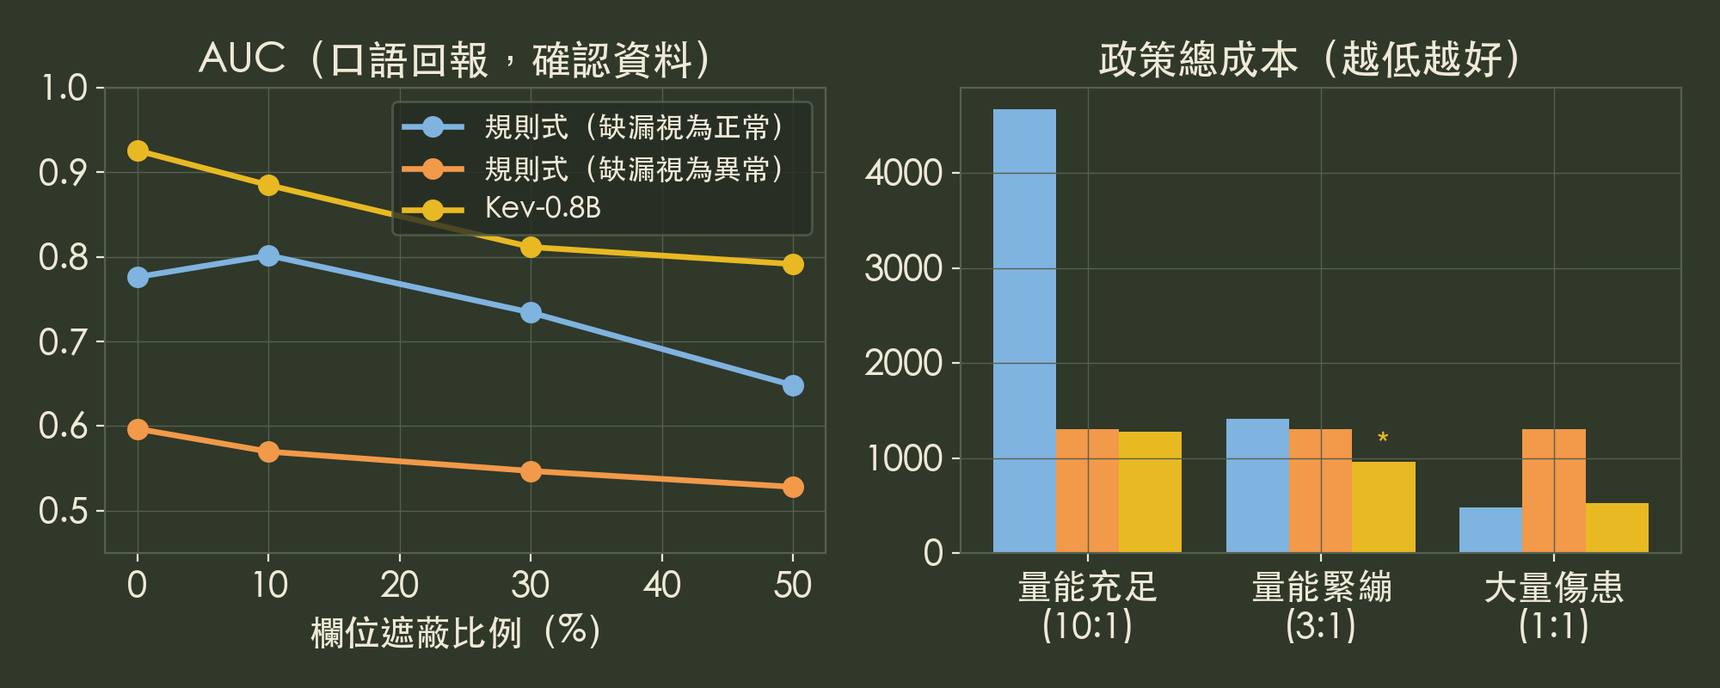
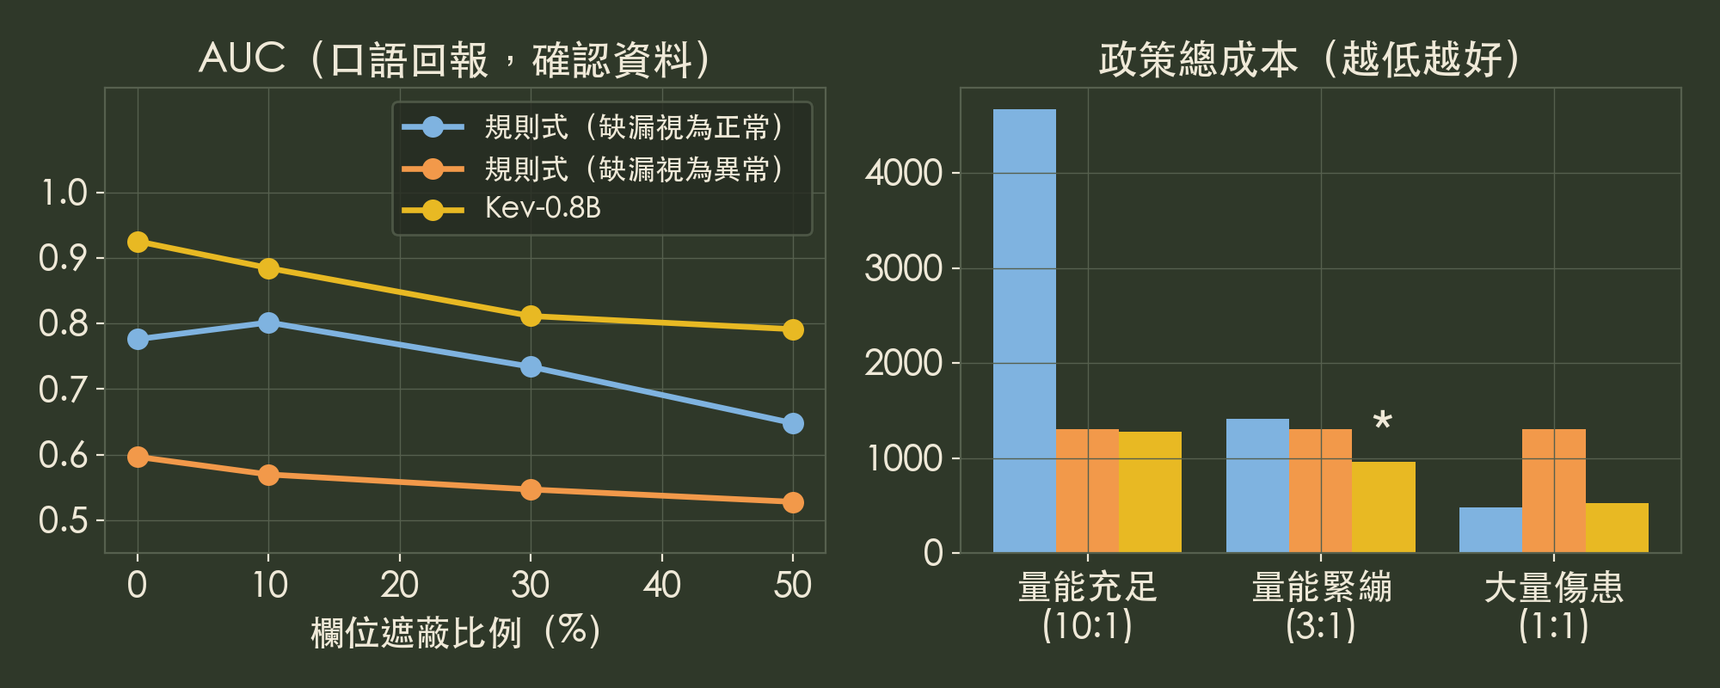
Fix outage over-triage rate and correct deck content and layout
Analysis
- analyze.py: the cloud-outage table averaged the over-triage rate of Jev
  and the fallback rules. That rate's denominator (reports called red)
  differs between the two, so mix the expected counts and recompute it.
  At 50% masking the 30% / 70% outage rows change from 25.5% / 43.1% to
  37.1% / 50.8%; under-triage and red-call share are unchanged.

Deck
- Slide 38 uses the corrected outage figures.
- Four AI models, not five; Qwen comparison stated in terms of AUC.
- ROC takeaway limited to Jev; "rules suffice on structured reports"
  narrowed to local small models, matching the cost table.
- Closing tag uses a limb case (C0353) instead of a tourniquet on an
  axillary wound, with the cross-validated threshold (~0.41).
- MARCH described as a care sequence rather than a triage standard.
- Preregistered H4 (Kev vs Qwen3-4B) reported as not run; preregistration
  described as self-registered, added to the limitations.
- Note that the AUC rise at 10% masking is within sampling error.
- Counts labelled as reports, sign of the cost change stated, SDT
  acronym dropped from a title, references tidied.
- Runs tagged zh-TW so PowerPoint applies East Asian line breaking;
  recommendation numbering runs 1-5; row labels no longer collide.
- Deck figures: legend clear of the lines, larger significance mark,
  "判斷傾向" wording. Report figures are unchanged.

diff --git a/簡報/build_pptx.js b/簡報/build_pptx.js
@@ -117,13 +117,13 @@ function tag(s, lines) {
 }
 
 // Numbered rows: [title, detail] pairs, one per line, for step-by-step explanations.
-function rows(s, items, y0 = 1.85, rowH = 1.0, size = 17) {
+function rows(s, items, y0 = 1.85, rowH = 1.0, size = 17, start = 1) {
   items.forEach(([t, d], i) => {
     const y = y0 + i * rowH;
     s.addShape(pres.shapes.ROUNDED_RECTANGLE, { x: 0.76, y, w: 11.8, h: rowH - 0.14, fill: { color: COL.card }, rectRadius: 0.06 });
-    s.addText(String(i + 1), { x: 0.95, y, w: 0.55, h: rowH - 0.14, fontFace: MONO, fontSize: 24, bold: true, color: COL.redText, margin: 0, valign: "middle", isTextBox: true });
-    s.addText(t, { x: 1.55, y, w: 2.9, h: rowH - 0.14, fontSize: size + 1, bold: true, color: COL.paper, margin: 0, valign: "middle", isTextBox: true });
-    s.addText(rich(d, { fontSize: size, color: "EAE3CF" }), { x: 4.55, y, w: 7.8, h: rowH - 0.14, margin: 0, valign: "middle", isTextBox: true, lineSpacingMultiple: 1.2 });
+    s.addText(String(i + start), { x: 0.95, y, w: 0.55, h: rowH - 0.14, fontFace: MONO, fontSize: 24, bold: true, color: COL.redText, margin: 0, valign: "middle", isTextBox: true });
+    s.addText(t, { x: 1.55, y, w: 3.2, h: rowH - 0.14, fontSize: size + 1, bold: true, color: COL.paper, margin: 0, valign: "middle", isTextBox: true });
+    s.addText(rich(d, { fontSize: size, color: "EAE3CF" }), { x: 4.95, y, w: 7.25, h: rowH - 0.14, margin: 0, valign: "middle", isTextBox: true, lineSpacingMultiple: 1.2 });
   });
 }
 
@@ -155,7 +155,7 @@ function rows(s, items, y0 = 1.85, rowH = 1.0, size = 17) {
 {
   const s = content("01 · BACKGROUND", "檢傷數位化之後，下一步是 AI 建議");
   bullets(s, ["國防部將「全社會防衛韌性」與軍民醫療體系整合列為施政重點（國防部，2025）。",
-    "2026 年漢光 42 號演習驗證衛勤「2 段 3 級」後送體系，並首度投入軍醫局研發的電子傷票（游凱翔，2026）。",
+    "2026 年漢光 42 號演習驗證衛勤「2 段 3 級」後送體系，並投入驗證軍醫局研發的電子傷票系統（游凱翔，2026）。",
     "電子傷票使傷情回報得以結構化，後續極可能由 AI 提供檢傷建議。"], 0.76, 2.1, 5.9, 4.0, 19);
   note(s, 7.0, 2.05, 5.55, 3.4, "為什麼門檻是政策問題",
     ["戰時後送量能有限：!!低估傷勢!!將延誤救治，**過度檢傷**則排擠救護車與手術量能。",
@@ -189,7 +189,7 @@ function rows(s, items, y0 = 1.85, rowH = 1.0, size = 17) {
   const s = content("01 · THE GAP", "規則式檢傷的隱含前提：回報須符合制式格式");
   note(s, 0.76, 1.95, 5.75, 3.35, "規則可解析的制式說法", ["有大量出血，正在加壓止血", "橈動脈摸不到", "呼吸每分鐘 34 次", "無法遵從簡單指令"], 20);
   note(s, 6.8, 1.95, 5.75, 3.35, "規則無法解析的口語說法", ["血一直噴出來，止血帶綁上去了", "手腕那邊摸不太到脈", "一分鐘大概三十四下", "叫他都沒反應"], 20);
-  caption(s, "START 與 MARCH 是現行的檢傷準則，只要知道傷員的生命徵象就能判斷，看似不需要 AI。但戰場無線電回報多半是口語，規則程式只認得預先寫好的用語，遇到其他說法就無法判讀，只能當成資料缺漏。**本研究要回答：在什麼條件下，前線值得用 AI 取代規則式檢傷？**", 0.76, 5.55, 11.8, 1.2, 18);
+  caption(s, "START 檢傷流程（本研究另依戰傷救護的 MARCH 原則，將大出血列為優先）只要知道傷員的生命徵象就能判斷，看似不需要 AI。但戰場無線電回報多半是口語，規則程式只認得預先寫好的用語，遇到其他說法就無法判讀，只能當成資料缺漏。**本研究要回答：在什麼條件下，前線值得用 AI 取代規則式檢傷？**", 0.76, 5.55, 11.8, 1.2, 18);
 }
 
 // === 04 QUESTIONS ===
@@ -217,7 +217,7 @@ function rows(s, items, y0 = 1.85, rowH = 1.0, size = 17) {
 // === 06 PIPELINE ===
 {
   const s = content("02 · TRACE PIPELINE", "TRACE 的五個步驟");
-  [["生成傷員", "依 START 與 MARCH 準則生成合成傷員及標準答案"], ["通訊受損", "轉為制式或口語回報，各欄位以 0%～50% 機率缺漏"],
+  [["生成傷員", "依 START 流程與 MARCH 原則生成合成傷員及標準答案"], ["通訊受損", "轉為制式或口語回報，各欄位以 0%～50% 機率缺漏"],
    ["判斷", "規則式與 AI 模型分別輸出屬紅色的機率"], ["評估", "計算 d'、c、AUC 與政策總成本"],
    ["政策推算", "推算量能情境門檻、人工覆核區間與部署成本"]].forEach(([h, t], i) => {
     const x = 0.76 + i * 2.39;
@@ -234,7 +234,7 @@ function rows(s, items, y0 = 1.85, rowH = 1.0, size = 17) {
 {
   const s = content("02 · TERMS", "本簡報使用的名詞");
   table(s, ["名詞", "意思"],
-    [["規則式檢傷", "不使用 AI，直接依 START 與 MARCH 檢傷準則的條文逐項判斷，例如呼吸每分鐘超過 30 次就判為紅色"],
+    [["規則式檢傷", "不使用 AI，直接依 START 檢傷流程與 MARCH 原則的條文逐項判斷，例如呼吸每分鐘超過 30 次就判為紅色"],
      ["制式回報／口語回報", "制式回報依固定格式與固定用語填寫；口語回報是無線電中自然講出的話，用語不固定"],
      ["欄位缺漏（遮蔽）", "回報中某些生命徵象沒有傳到，例如通訊中斷而缺少「呼吸次數」。遮蔽比例 30% 表示每個欄位有 30% 機率缺漏"],
      ["本機模型／雲端模型", "本機模型在前線的電腦上執行，不需網路；雲端模型必須連網，把資料傳到廠商伺服器處理"],
@@ -261,7 +261,7 @@ function rows(s, items, y0 = 1.85, rowH = 1.0, size = 17) {
 // === 08 GOLD ===
 {
   const s = content("02 · METHOD · 標準答案", "標準答案由準則直接決定");
-  const rules = ["大量出血 → 紅色（MARCH，Butler, 2017）", "可自行行走 → 綠色", "無自發呼吸：暢通呼吸道後恢復 → 紅色；仍無 → 黑色",
+  const rules = ["大量出血 → 紅色（MARCH 原則，Butler, 2017）", "可自行行走 → 綠色", "無自發呼吸：暢通呼吸道後恢復 → 紅色；仍無 → 黑色",
     "呼吸每分鐘超過 30 次 → 紅色", "橈動脈摸不到或微血管回填超過 2 秒 → 紅色", "無法遵從簡單指令 → 紅色", "其餘 → 黃色（START，Benson et al., 1996）"];
   s.addText(rules.map((t, i) => ({ text: t, options: { bullet: { type: "number" }, breakLine: i < rules.length - 1, paraSpaceAfter: 8 } })),
     { x: 0.76, y: 2.0, w: 6.2, h: 4.5, fontSize: 17, color: COL.cream, valign: "top", margin: 0.05, isTextBox: true });
@@ -273,7 +273,8 @@ function rows(s, items, y0 = 1.85, rowH = 1.0, size = 17) {
     x += w;
   });
   caption(s, "600 名合成傷員的檢傷分布", 7.3, 3.15, 5.25, 0.35, 12, "center");
-  note(s, 7.3, 3.75, 5.25, 1.7, null, ["本研究將「訊號」定義為**紅色**，即需立即處置者。", "標準答案由準則直接決定，無需專家標註，可依同一隨機種子重新生成"], 17);
+  note(s, 7.3, 3.75, 5.25, 2.85, null, ["本研究將「訊號」定義為**紅色**，即需立即處置者。", "標準答案由準則直接決定，無需專家標註，可依同一隨機種子重新生成。",
+    "START 是大量傷患檢傷流程；MARCH 是戰傷救護的處置順序，本研究借用其「大出血優先」原則，置於 START 流程之前"], 15);
 }
 
 // === 09 MASKING ===
@@ -302,18 +303,18 @@ function rows(s, items, y0 = 1.85, rowH = 1.0, size = 17) {
 // === 09c FAIR PARSER ===
 {
   const s = content("02 · METHOD · 公平性", "規則解析器：僅依 A 組說法撰寫，並力求完善");
-  bullets(s, ["以關鍵字比對程式讀取回報，找出各項生命徵象，再依 START 與 MARCH 準則判斷；讀不出來的欄位視為缺漏，分為「當作正常」與「當作異常」兩個版本",
+  bullets(s, ["以關鍵字比對程式讀取回報，找出各項生命徵象，再依 START 流程與 MARCH 原則判斷；讀不出來的欄位視為缺漏，分為「當作正常」與「當作異常」兩個版本",
     "程式只依 A 組說法撰寫，但已能處理否定句（如「無明顯大出血」）與兩種數字寫法",
     "公平性檢驗：回報全部採用 A 組說法時，解析器與直接讀取欄位的規則在 2,400 筆中判斷完全一致"], 0.76, 2.0, 6.6, 4.6, 17);
-  note(s, 7.7, 2.2, 4.85, 2.8, "因此，規則表現下降的原因在於", ["實際通訊中必然出現、但規則未能預期的說法，**而非**解析器撰寫不周"], 20);
+  note(s, 7.7, 2.2, 4.85, 2.8, "因此，規則表現下降的原因在於", ["實際通訊中難免出現、但規則未能預期的說法，**而非**解析器撰寫不周"], 20);
 }
 
 // === 09d EXPLORE / CONFIRM ===
 {
   const s = content("02 · METHOD · 探索與確認", "研究設計：先行探索，再以預先登記的全新資料確認");
   note(s, 0.76, 1.85, 3.7, 4.75, "探索", ["使用原 600 名傷員的口語回報。", "比較多種作法（英文提示、拆分問題、僅估計缺漏欄位等），最後選定由模型直接判斷"], 17);
-  note(s, 4.8, 1.85, 3.7, 4.75, "預先登記", ["於產生確認資料、執行任何模型**之前**，將假設與所有固定設定寫入 PREREGISTRATION.md"], 17);
-  note(s, 8.85, 1.85, 3.7, 4.75, "確認", ["以隨機種子 777 生成**全新** 600 名傷員，僅執行一次，不再調整設定。", "H1：量能緊繃時，Kev 優於規則", "H2：量能充足時，Kev 優於規則", "H3：大量傷患時，Kev 不優於規則"], 17);
+  note(s, 4.8, 1.85, 3.7, 4.75, "預先登記", ["於確認資料上執行 AI 模型**之前**，將假設與所有固定設定寫入 PREREGISTRATION.md。", "屬自行登記，沒有第三方時間戳記"], 17);
+  note(s, 8.85, 1.85, 3.7, 4.75, "確認", ["以隨機種子 777 生成**全新** 600 名傷員，僅執行一次，不再調整設定。", "H1 量能緊繃：Kev 優於規則", "H2 量能充足：Kev 優於規則", "H3 大量傷患：Kev 不優於規則", "H4（探索性）Kev 對 Qwen3-4B：**未執行**"], 14);
 }
 
 // === 10 JUDGES ===
@@ -325,7 +326,7 @@ function rows(s, items, y0 = 1.85, rowH = 1.0, size = 17) {
      ["Qwen3-4B", "通用型 AI 對話模型，規模 40 億參數", "前線電腦，不需網路"],
      ["Apple 裝置端模型", "Apple 電腦作業系統內建的 AI 模型，規模約 30 億參數", "前線電腦，不需網路"],
      ["Kev-0.8B", "專門回答是非題、直接輸出機率的開源 AI 模型，規模 8 億參數，可免費使用", "前線電腦，不需網路"],
-     ["Jev 1.14", "商業公司提供的同類型 AI 模型，按使用量付費", "廠商雲端伺服器，必須連網"]],
+     ["Jev 1.14", "商業公司提供的同類型 AI 模型，按使用量付費（TypeSafe, 2026）", "廠商雲端伺服器，必須連網"]],
     0.76, 1.8, 11.8, { size: 14, rowH: 0.52, hl: [4, 5], colW: [2.8, 6.4, 2.6] });
   caption(s, "主實驗（口語回報）比較前兩種規則與 Kev；基準實驗（制式回報）比較全部六種。選擇 Kev 的原因是：Jev 只能連網使用，Kev 是同類型、可在前線離線執行的開源模型（Palmer, 2026）。", 0.76, 5.95, 11.8, 0.9, 15);
 }
@@ -357,9 +358,9 @@ function rows(s, items, y0 = 1.85, rowH = 1.0, size = 17) {
      ["AUC", "隨機各抽一名紅色與非紅色傷員，紅色那位機率較高的比例", "0.5 等於亂猜，1.0 完全正確"],
      ["d'（辨識力）", "由命中率與誤報率換算，代表分開兩群傷員的程度", "越大越好"],
      ["c（判斷傾向）", "由命中率與誤報率換算，代表偏向多判或少判紅色", "0 為不偏；小於 0 偏向多判紅色"],
-     ["政策總成本", "成本比 × 漏報人數 ＋ 誤報人數", "越低越好"]],
+     ["政策總成本", "成本比 × 漏報筆數 ＋ 誤報筆數", "越低越好"]],
     0.76, 1.8, 11.8, { size: 14, rowH: 0.48, colW: [2.6, 6.1, 3.1] });
-  caption(s, "所有差異都附上 95% 信賴區間：從傷員中重複抽樣 1,000 次並重新計算，取中間 95% 的範圍（同一傷員的四筆回報一起抽）。命中率是紅色傷員被正確判紅的比例，誤報率是非紅色傷員被誤判紅色的比例。", 0.76, 6.0, 11.8, 0.85, 13);
+  caption(s, "所有差異都附上 95% 信賴區間：從傷員中重複抽樣 1,000 次並重新計算，取中間 95% 的範圍（同一傷員的四筆回報一起抽）。命中率是紅色傷員被正確判紅的比例，誤報率是非紅色傷員被誤判紅色的比例；誤報率以非紅色傷員為分母，過度檢傷率以被判紅色者為分母，兩者不同。", 0.76, 5.95, 11.8, 0.9, 13);
 }
 
 // === 13 POLICY METHOD ===
@@ -386,20 +387,20 @@ function rows(s, items, y0 = 1.85, rowH = 1.0, size = 17) {
   table(s, ["判斷者", "遮蔽 0%", "遮蔽 10%", "遮蔽 30%", "遮蔽 50%"],
     [["規則式（缺漏視為正常）", "0.776", "0.802", "0.734", "0.648"], ["規則式（缺漏視為異常）", "0.597", "0.570", "0.547", "0.528"], ["Kev-0.8B", "0.925", "0.885", "0.811", "0.791"]],
     0.76, 2.0, 11.8, { size: 16, rowH: 0.6, hl: [2], colW: [4.2, 1.9, 1.9, 1.9, 1.9] });
-  caption(s, "表中數字為 AUC（0.5 等於隨機猜測，1.0 為完全正確），資料為全新的 600 名傷員。固定格式的回報下，規則在資訊完整時 AUC 為 1.000；改為口語回報後，即使資訊完整也只剩 0.776，因為規則讀不懂許多說法。Kev 在各種缺漏程度下都高於規則。", 0.76, 4.7, 11.8, 1.3, 15);
+  caption(s, "表中數字為 AUC（0.5 等於隨機猜測，1.0 為完全正確），資料為全新的 600 名傷員。固定格式的回報下，規則在資訊完整時 AUC 為 1.000；改為口語回報後，即使資訊完整也只剩 0.776，因為規則讀不懂許多說法。Kev 在各種缺漏程度下都高於規則。規則（缺漏視為正常）在遮蔽 10% 時略高於 0%，差異 0.025 在抽樣誤差範圍內（95% 信賴區間 −0.018～+0.069）。", 0.76, 4.7, 11.8, 1.6, 15);
 }
 
 // === M1b HOW COST WORKS ===
 {
   const s = content("03 · 主實驗 · Q1", "如何比較優劣：政策總成本的計算方式");
   caption(s, "單看正確率無法反映實際後果，因為漏掉一名紅色傷員和多送一名非紅色傷員的代價不同。本研究用「政策總成本」比較：", 0.76, 1.8, 11.8, 0.8, 17);
-  note(s, 0.76, 2.65, 11.8, 1.0, null, ["**政策總成本 ＝ 成本比 × 漏報人數 ＋ 誤報人數**　　以「量能緊繃」為例，成本比為 3，即漏掉 1 名紅色傷員的代價，等於多送 3 名非紅色傷員。"], 17);
-  table(s, ["判斷方式（量能緊繃）", "漏報人數", "誤報人數", "計算", "政策總成本"],
+  note(s, 0.76, 2.65, 11.8, 1.0, null, ["**政策總成本 ＝ 成本比 × 漏報筆數 ＋ 誤報筆數**　　以「量能緊繃」為例，成本比為 3，即漏掉 1 名紅色傷員的代價，等於多送 3 名非紅色傷員。"], 17);
+  table(s, ["判斷方式（量能緊繃）", "漏報筆數", "誤報筆數", "計算", "政策總成本"],
     [["規則式（缺漏視為正常）", "465", "15", "3 × 465 ＋ 15", "1,410"],
      ["規則式（缺漏視為異常）", "0", "1,308", "3 × 0 ＋ 1,308", "1,308"],
      ["Kev-0.8B", "141", "541", "3 × 141 ＋ 541", "964"]],
     0.76, 3.85, 11.8, { size: 16, rowH: 0.5, hl: [2], colW: [4.4, 1.5, 1.5, 2.6, 1.8] });
-  caption(s, "總成本越低越好。兩種規則各走一個極端：一個漏掉 465 名紅色傷員，另一個把 1,308 名非紅色傷員也送走；Kev 在兩者之間取得較好的平衡。（確認資料共 2,400 筆回報）", 0.76, 6.0, 11.8, 0.8, 16);
+  caption(s, "總成本越低越好。兩種規則各走一個極端：一個漏掉 465 筆紅色傷員的回報，另一個把 1,308 筆非紅色傷員的回報也判為紅色；Kev 在兩者之間取得較好的平衡。（確認資料為 600 名傷員 × 4 種遮蔽比例，共 2,400 筆回報）", 0.76, 6.0, 11.8, 0.8, 16);
 }
 
 // === M2 MAIN COST ===
@@ -426,14 +427,14 @@ function rows(s, items, y0 = 1.85, rowH = 1.0, size = 17) {
   const s = content("03 · 主實驗 · Q1", "預先登記假設的檢驗結果：兩項成立，一項未獲確認");
   [["H1 量能緊繃：成立", "Kev 總成本較最佳規則低 344（約 26%），95% 信賴區間完全低於 0。兩種規則皆趨於極端：判紅比例 92.5%，或漏掉半數紅色傷患；Kev 判紅比例 54.7%，低估率 15.5%", COL.red],
    ["H2 量能充足：未獲確認", "探索資料中差異顯著（−128），確認資料僅 −28，信賴區間涵蓋 0。漏報代價極高時，兩者皆傾向幾乎全部判紅，差異有限", COL.yel],
-   ["H3 大量傷患：成立", "「缺漏視為正常」規則略優於 Kev，但差異不顯著。在寧可少後送的情境下，簡單規則已足夠", COL.grn]]
+   ["H3 大量傷患：成立", "「缺漏視為正常」規則的成本略低於 Kev（差 47），差異不顯著，符合「Kev 不優於規則」的預期。在寧可少後送的情境下，簡單規則已足夠", COL.grn]]
     .forEach(([h, t, c], i) => card(s, 0.76 + i * 3.98, 1.9, 3.8, 3.1, h, t, c, 15));
-  note(s, 0.76, 5.3, 11.8, 1.1, null, ["量能緊繃情境的優勢在探索（−374）與確認（−344）資料中一致出現，**並非事後挑選的結果**。"], 16);
+  note(s, 0.76, 5.3, 11.8, 1.25, null, ["量能緊繃情境的優勢在探索（−374）與確認（−344）資料中一致出現，**並非事後挑選的結果**。另一項已登記的探索性假設 H4（Kev 與 Qwen3-4B 的比較）未執行。"], 16);
 }
 
 // === 15 Q1 TABLE ===
 {
-  const s = content("03 · 基準實驗 · Q2", "制式回報下，遮蔽 0% 與 50% 的 SDT 指標（門檻 0.5）");
+  const s = content("03 · 基準實驗 · Q2", "制式回報下，遮蔽 0% 與 50% 的 d'、c 與 AUC（門檻 0.5）");
   table(s, ["判斷者", "遮蔽", "d'", "c", "AUC", "低估率", "過度檢傷率"],
     [["規則式（缺漏視為正常）", "0%", "5.85", "0.08", "1.000", "0.0%", "0.0%"], ["規則式（缺漏視為正常）", "50%", "2.48", "0.94", "0.802", "38.2%", "3.5%"],
      ["規則式（缺漏視為異常）", "50%", "2.10", "−1.80", "0.613", "0.0%", "56.3%"], ["Qwen3-4B", "0%", "3.04", "−0.64", "0.939", "1.3%", "24.0%"],
@@ -467,7 +468,7 @@ function rows(s, items, y0 = 1.85, rowH = 1.0, size = 17) {
 {
   const s = content("03 · 基準實驗 · Q2", "資訊缺漏一半時，Jev 的 ROC 曲線仍明顯最高");
   s.addImage({ path: FIG("roc.png"), x: 1.7, y: 1.83, w: 9.9, h: 4.0, sizing: { type: "contain", w: 9.9, h: 4.0 }, altText: "遮蔽 0% 與 50% 時的 ROC 曲線" });
-  caption(s, "圖三　ROC 曲線：把門檻從高到低逐一調整，橫軸為誤報率、縱軸為命中率；曲線越靠近左上角越好，斜對角線代表隨機猜測。資訊缺漏一半時（右圖），Jev 的曲線仍最高；Kev 與 Qwen 相近，但 Kev 規模只有 Qwen 的五分之一。\n**意涵：AI 在資訊缺漏時的主要問題不是無法分辨，而是原本的門檻不再適用，必須隨戰況調整。**", 0.76, 6.0, 11.8, 0.85, 13, "center");
+  caption(s, "圖三　ROC 曲線：把門檻從高到低逐一調整，橫軸為誤報率、縱軸為命中率；曲線越靠近左上角越好，斜對角線代表隨機猜測。資訊缺漏一半時（右圖），Jev 的曲線仍最高；Kev 與 Qwen 相近，但 Kev 規模只有 Qwen 的五分之一。\n**意涵：對 Jev 而言，缺漏時的主要問題不是無法分辨，而是原本的門檻不再適用；其餘模型則是辨識力與門檻同時受影響。**", 0.76, 6.0, 11.8, 0.85, 13, "center");
 }
 
 // === 19 Q2 TABLE ===
@@ -511,7 +512,8 @@ function rows(s, items, y0 = 1.85, rowH = 1.0, size = 17) {
   const s = content("03 · 基準實驗 · Q2", "依缺漏欄位數分組設定門檻：方向一致，但效益有限");
   bullets(s, ["前線可從電子傷票得知缺漏欄位數，因此測試依缺 0、1、2、3 個以上欄位分組設定門檻（兩折交叉驗證）",
     "各模型大致呈現相同方向：缺漏越多，最適門檻越低。例如 Jev 在量能緊繃時，缺 0 欄的門檻約 0.94，缺 3 欄以上則降至 0.20",
-    "然而總成本改善有限（−4.9%～+27.8%，多數在 ±15% 以內）"], 0.76, 2.0, 6.2, 4.6, 17);
+    "然而總成本降幅有限且不穩定（−4.9%～+27.8%，正值表示成本下降，多數在 ±15% 以內）",
+    "分組門檻效益不穩定，實務上也難以維護，因此建議改採右側的簡化規定；此為政策推論，並非由本分析直接驗證"], 0.76, 1.95, 6.2, 4.8, 16);
   note(s, 7.3, 2.3, 5.25, 2.6, "建議採行的簡化規定", ["缺漏!!兩個以上!!關鍵欄位時，不論 AI 機率高低，**一律送交人工覆核**"], 22);
 }
 
@@ -534,28 +536,28 @@ function rows(s, items, y0 = 1.85, rowH = 1.0, size = 17) {
      ["斷網時能否運作", "可以", "可以", "可以", "可以", "不行"], ["資料是否傳出裝置", "否", "否", "否", "否", "是"],
      ["AUC（資訊完整／缺一半）", "1.000／0.802", "0.982／0.826", "0.939／0.824", "0.951／0.777", "0.996／0.926"]],
     0.76, 1.85, 11.8, { size: 13, rowH: 0.46, colW: [2.5, 1.6, 2.0, 1.8, 1.8, 2.1] });
-  caption(s, "每筆處理時間列出一般情況（中位數）與較慢情況（最慢 5%）。Kev 的記憶體為實測值；Qwen 的記憶體、Kev 的檔案大小與 Apple 的參數量依公開規格估計。", 0.76, 6.5, 11.8, 0.35, 12);
+  caption(s, "每筆處理時間為中位數／最慢 5%。Kev 記憶體為實測值；Qwen 記憶體、Kev 檔案大小與 Apple 參數量依公開規格估計。", 0.76, 6.5, 11.8, 0.35, 12);
 }
 
 // === 24 COST TAKEAWAY ===
 {
   const s = content("03 · 部署 · Q3", "計算成本分析：前線部署不需要大型模型");
-  [["183", "毫秒／筆", "五個 AI 模型中速度最快"], ["3 GB", "記憶體", "一般筆電或加固型平板即可負擔"],
-   ["0.982", "AUC（資訊完整）", "接近雲端 Jev 的 0.996"], ["5×", "模型規模差距", "Qwen3-4B 規模大五倍、慢七倍，辨識力未較佳"]].forEach(([v, l, t], i) => {
+  [["183", "毫秒／筆", "四個 AI 模型中速度最快"], ["3 GB", "記憶體", "一般筆電或加固型平板即可負擔"],
+   ["0.982", "AUC（資訊完整）", "接近雲端 Jev 的 0.996"], ["5×", "模型規模差距", "Qwen3-4B 規模為五倍、慢七倍，AUC 未較高"]].forEach(([v, l, t], i) => {
     const x = 0.76 + i * 3.0;
     s.addShape(pres.shapes.RECTANGLE, { x, y: 1.95, w: 2.8, h: 0.05, fill: { color: COL.red }, line: { color: COL.red, width: 0 } });
     s.addText(v, { x, y: 2.1, w: 2.8, h: 1.0, fontFace: MONO, fontSize: 48, bold: true, color: COL.paper, margin: 0, isTextBox: true });
     s.addText(l, { x, y: 3.1, w: 2.8, h: 0.35, fontFace: MONO, fontSize: 13, bold: true, color: COL.muted, margin: 0, isTextBox: true });
     s.addText(t, { x, y: 3.5, w: 2.7, h: 1.0, fontSize: 15, color: COL.cream, margin: 0, valign: "top", isTextBox: true, lineSpacingMultiple: 1.2 });
   });
-  note(s, 0.76, 4.85, 11.8, 1.55, null, ["Kev 可完全離線運作、資料不離開裝置，且正是主實驗中在口語回報優於規則的模型。**前線部署的關鍵不在模型規模，而在於事前以口語與缺漏情境校準門檻。**"], 18);
+  note(s, 0.76, 4.85, 11.8, 1.55, null, ["Kev 可完全離線運作、資料不離開裝置，且正是主實驗中，口語回報、量能緊繃時優於規則的模型。**前線部署的關鍵不在模型規模，而在於事前以口語與缺漏情境校準門檻。**"], 18);
 }
 
 // === 25 OUTAGE ===
 {
   const s = content("03 · 部署 · Q3", "雲端斷線：在最需要時最可能失效");
   table(s, ["斷線比例", "低估率", "過度檢傷率", "判紅比例"],
-    [["0%", "33.3%", "12.3%", "28.5%"], ["30%", "23.3%", "25.5%", "45.7%"], ["70%", "10.0%", "43.1%", "68.6%"], ["100%", "0.0%", "56.3%", "85.8%"]],
+    [["0%", "33.3%", "12.3%", "28.5%"], ["30%", "23.3%", "37.1%", "45.7%"], ["70%", "10.0%", "50.8%", "68.6%"], ["100%", "0.0%", "56.3%", "85.8%"]],
     0.76, 2.0, 6.4, { size: 16, rowH: 0.6, hl: [3] });
   caption(s, "讀法：資訊缺漏一半、門檻 0.5 時，斷線比例越高，由保守規則接手的回報越多。漏報雖然減少，但判為紅色的傷員比例由 28.5% 升到 85.8%", 0.76, 5.15, 6.4, 0.4, 13);
   bullets(s, ["雲端 Jev 在資訊缺漏下的辨識力與覆核負擔表現最佳，但必須連網，且傷員資料將傳送至境外商業伺服器，戰時涉及資安與主權風險",
@@ -565,23 +567,24 @@ function rows(s, items, y0 = 1.85, rowH = 1.0, size = 17) {
 // === 26 RECOMMENDATIONS ===
 {
   const s = content("04 · POLICY", "政策建議（一）：何時使用 AI、如何設定門檻");
-  rows(s, [["依回報方式決定是否導入 AI", "如果前線能確實依制式格式填寫電子傷票，規則式檢傷就已足夠，不需要 AI。只有在前線仍以無線電口語回報為主時，才值得部署 AI。"],
+  rows(s, [["依回報方式決定是否導入 AI", "如果前線能確實依制式格式填寫電子傷票，本機小型 AI 並未優於規則式檢傷（僅雲端 Jev 在部分情境較佳）。前線仍以無線電口語回報為主時，才值得部署本機 AI。"],
     ["依後送量能切換判斷方式", "本研究中，小型 AI 只在**量能緊繃**時明確優於規則；量能充足時兩者相近，大量傷患時規則略好。應由衛勤指揮官依當下量能，決定使用規則或 AI，以及門檻高低。"],
     ["明定人工覆核條件", "AI 的機率落在「量能充足門檻」與「大量傷患門檻」之間，或回報缺少兩個以上重要欄位時，一律交由軍醫判斷。AI 只提供參考意見，最終責任仍屬醫療人員。"]], 1.85, 1.6, 16);
 }
 {
   const s = content("04 · POLICY", "政策建議（二）：採購驗收與部署方式");
-  rows(s, [["驗收必須包含口語與缺漏測試", "採購 AI 檢傷系統時，應要求廠商以口語化、含缺漏、且事先未曾看過的回報資料測試，並報告漏報率、誤報率及與規則相比的政策總成本，而不只是報告正確率。"],
-    ["前線以本機模型為主，雲端為輔", "前線使用可離線運作的小型模型（Kev-0.8B 每筆約 0.2 秒、記憶體約 3 GB），不受斷網影響、資料不外流；需要連網的雲端模型只用於後方。斷線時的備用規則，必須同時規定後送的優先順序。"]], 1.85, 2.3, 17);
+  rows(s, [["驗收須含口語與缺漏測試", "採購 AI 檢傷系統時，應要求廠商以口語化、含缺漏、且事先未曾看過的回報資料測試，並報告漏報率、誤報率及與規則相比的政策總成本，而不只是報告正確率。"],
+    ["前線本機為主，雲端為輔", "前線使用可離線運作的小型模型（Kev-0.8B 每筆約 0.2 秒、記憶體約 3 GB），不受斷網影響、資料不外流；需要連網的雲端模型只用於後方。斷線時的備用規則，必須同時規定後送的優先順序。"]], 1.85, 2.3, 17, 4);
 }
 
 // === 27 LIMITATIONS ===
 {
   const s = content("04 · LIMITATIONS", "研究限制：哪些結論還需要進一步確認");
-  rows(s, [["資料是合成的", "傷員資料、生命徵象與口語說法都由研究者以程式產生，不是真實戰場紀錄。結論證明的是評估方法可行，仍需用演習的真實無線電紀錄再驗證。"],
+  rows(s, [["資料是合成的", "傷員資料、生命徵象與口語說法都由研究者以程式產生，不是真實戰場紀錄；口語說法未依傷勢部位調整，也未經語音辨識。結論證明的是評估方法可行，仍需用演習的真實無線電紀錄再驗證。"],
     ["口語比例是設定的", "本研究設定一半的說法是規則沒有預料到的。真實比例可能更高或更低，會直接影響規則與 AI 的差距，需要用演習資料估計，並測試不同比例。"],
-    ["口語實驗只測了 Kev", "口語回報的實驗沒有納入 Qwen、Apple 與 Jev，不同 AI 模型在口語回報下的表現，留待後續研究比較。"],
-    ["提示與成本比未調整", "所有 AI 使用相同的指示文字，沒有針對個別模型調整；模型更新後結果可能改變。成本比是示範值，實際數值應由衛勤專業與指揮體系決定。"]], 1.85, 1.2, 15);
+    ["口語實驗只完成 Kev", "口語回報的確認實驗只完成 Kev。預先登記的 H4（Kev 與 Qwen3-4B 的比較）未執行，Apple 與 Jev 亦未納入；不同模型在口語回報下的表現，留待後續研究比較。"],
+    ["預先登記未經第三方存證", "假設與固定設定寫在專案內的 PREREGISTRATION.md，沒有第三方時間戳記；後續研究應於公開平台登記。"],
+    ["提示與成本比未調整", "所有 AI 使用相同的指示文字，沒有針對個別模型調整；模型更新後結果可能改變。成本比是示範值，實際數值應由衛勤專業與指揮體系決定。"]], 1.8, 1.0, 14);
 }
 
 // === 28 CONCLUSION ===
@@ -590,11 +593,11 @@ function rows(s, items, y0 = 1.85, rowH = 1.0, size = 17) {
   s.addText("CONCLUSION", { x: 0.9, y: 0.75, w: 6, h: 0.35, fontFace: MONO, fontSize: 13, bold: true, color: COL.muted, charSpacing: 3, margin: 0, isTextBox: true });
   s.addText([{ text: "小型 AI 的價值", options: { breakLine: true } }, { text: "在於理解口語回報，", options: { breakLine: true } }, { text: "門檻由指揮官決定", options: { color: COL.redText } }],
     { x: 0.9, y: 1.25, w: 7.8, h: 2.5, fontSize: 40, bold: true, color: COL.cream, margin: 0, isTextBox: true, lineSpacingMultiple: 1.15 });
-  s.addText("制式回報下，規則式檢傷已足以勝任。\n回報為口語且量能緊繃時，可離線的 8 億參數模型 Kev\n在全新資料上顯著優於規則，政策總成本降低 26%。\n門檻應由指揮官依後送量能設定，不確定案例交由軍醫覆核。",
+  s.addText("制式回報下，本機小型 AI 未優於規則式檢傷。\n回報為口語且量能緊繃時，可離線的 8 億參數模型 Kev\n在全新資料上顯著優於規則，政策總成本降低 26%。\n門檻應由指揮官依後送量能設定，不確定案例交由軍醫覆核。",
     { x: 0.9, y: 4.1, w: 7.6, h: 1.7, fontSize: 17, color: "D8D0B8", margin: 0, valign: "top", isTextBox: true, lineSpacingMultiple: 1.35 });
   s.addText("TRACE · " + AUTHOR, { x: 0.9, y: 6.4, w: 7, h: 0.35, fontFace: MONO, fontSize: 13, color: COL.muted, margin: 0, isTextBox: true });
   s.addText([{ text: "程式、資料與重現步驟：" }, { text: REPO, options: { hyperlink: { url: REPO } } }], { x: 0.9, y: 6.8, w: 8, h: 0.35, fontFace: MONO, fontSize: 12, color: COL.paper, margin: 0, isTextBox: true });
-  tag(s, ["腋下穿刺傷", "「血一直噴出來，", "　止血帶綁上去了」", "Kev 機率 0.57（案例 C0302）", "量能緊繃門檻 0.42", "建議：紅色，立即後送"]);
+  tag(s, ["左大腿遭砲彈破片貫穿", "「血一直噴出來，", "　止血帶綁上去了」", "Kev 機率 0.55（案例 C0353）", "量能緊繃門檻約 0.41", "建議：紅色，立即後送"]);
 }
 
 // === 29 REFERENCES ===
@@ -602,7 +605,8 @@ function rows(s, items, y0 = 1.85, rowH = 1.0, size = 17) {
   const s = content("REFERENCES", "參考文獻");
   const refs = [
     [{ text: "國防部（2025）。" }, { text: "中華民國 114 年國防報告書", options: { italic: true } }, { text: "。國防部。https://www.mnd.gov.tw/InformationServices/NDR/85288" }],
-    [{ text: "游凱翔（2026 年 8 月 13 日）。漢光演練 2 段 3 級衛勤　驗證傷患處置流程與電子傷票。" }, { text: "中央社", options: { italic: true } }, { text: "。https://money.udn.com/money/story/7307/9688903" }],
+    [{ text: "游凱翔（2026 年 8 月 13 日）。漢光演練 2 段 3 級衛勤　驗證傷患處置流程與電子傷票。" }, { text: "經濟日報", options: { italic: true } }, { text: "（中央社稿）。https://money.udn.com/money/story/7307/9688903" }],
+    [{ text: (pres.author || "本研究程式與資料") + "（2026）。" }, { text: "TRACE", options: { italic: true } }, { text: "［程式與資料］。GitHub。" + REPO }],
     [{ text: "Benson, M., Koenig, K. L., & Schultz, C. H. (1996). Disaster triage: START, then SAVE—A new method of dynamic triage for victims of a catastrophic earthquake. " }, { text: "Prehospital and Disaster Medicine, 11", options: { italic: true } }, { text: "(2), 117–124. https://doi.org/10.1017/S1049023X0004276X" }],
     [{ text: "Butler, F. K. (2017). Two decades of saving lives on the battlefield: Tactical combat casualty care turns 20. " }, { text: "Military Medicine, 182", options: { italic: true } }, { text: "(3), e1563–e1568. https://doi.org/10.7205/MILMED-D-16-00214" }],
     [{ text: "Palmer, J. (2026). " }, { text: "Kev-0.8B", options: { italic: true } }, { text: " [Computer software]. Hugging Face. https://huggingface.co/jaredpalmer/kev-0.8b" }],
@@ -610,8 +614,7 @@ function rows(s, items, y0 = 1.85, rowH = 1.0, size = 17) {
     [{ text: "TypeSafe. (2026). " }, { text: "Models", options: { italic: true } }, { text: ". TypeSafe documentation. https://docs.typesafe.ai/models" }],
   ];
   let ry = 1.7;
-  refs.push([{ text: "本研究程式與資料（2026）。" }, { text: "TRACE", options: { italic: true } }, { text: "。GitHub。" + REPO }]);
-  const LINES = [1, 2, 2, 2, 1, 2, 1, 1];
+  const LINES = [1, 2, 1, 2, 2, 1, 1, 1];
   refs.forEach((r, i) => {
     const h = 0.3 * LINES[i] + 0.05;
     s.addText(r.map((p) => ({ text: p.text, options: p.options || {} })), { x: 0.76, y: ry, w: 11.8, h, fontSize: 13, color: COL.cream, valign: "top", margin: 0, isTextBox: true, lineSpacingMultiple: 1.2 });
@@ -619,4 +622,12 @@ function rows(s, items, y0 = 1.85, rowH = 1.0, size = 17) {
   });
 }
 
-pres.writeFile({ fileName: OUT }).then(() => console.log(OUT, n, "slides"));
+// Mark the text as Traditional Chinese so PowerPoint applies East Asian line-breaking rules
+// (no punctuation at the start of a line); pptxgenjs tags every run as en-US by default.
+pres.write({ outputType: "nodebuffer" }).then(async (buf) => {
+  const zip = await require("jszip").loadAsync(buf);
+  for (const f of Object.keys(zip.files).filter((f) => /^ppt\/(slides|slideLayouts|slideMasters)\/[^/]+\.xml$/.test(f)))
+    zip.file(f, (await zip.file(f).async("string")).replace(/lang="en-US"/g, 'lang="zh-TW" altLang="en-US"'));
+  fs.writeFileSync(OUT, await zip.generateAsync({ type: "nodebuffer", compression: "DEFLATE" }));
+  console.log(OUT, n, "slides");
+});

diff --git a/triage_study/analyze.py b/triage_study/analyze.py
@@ -200,14 +200,26 @@ def main() -> None:
             summary["adaptive"][j][name] = res
 
     # Cloud outage: Jev answers when the link is up, otherwise the unit falls
-    # back to the conservative rules. Rates mix linearly in the outage share q.
+    # back to the conservative rules. Expected counts mix linearly in the outage
+    # share q. The over-triage rate is a ratio whose denominator (reports called
+    # red) differs between the two judges, so it is recomputed from the mixed
+    # counts instead of being averaged.
     if "jev" in preds:
+        def counts(rows, thr=0.5):
+            tp = sum(sig and p >= thr for sig, p in rows)
+            fp = sum((not sig) and p >= thr for sig, p in rows)
+            fn = sum(sig and p < thr for sig, p in rows)
+            return tp, fp, fn
+
         for q in [0.0, 0.3, 0.7, 1.0]:
             out = {}
             for m in MASKS:
-                a = sdt(rows_for(trials, preds["jev"], m))
-                b = sdt(rows_for(trials, preds["rules_conservative"], m))
-                out[str(m)] = {k: (1 - q) * a[k] + q * b[k] for k in ["under", "over", "red_rate"]}
+                a = counts(rows_for(trials, preds["jev"], m))
+                b = counts(rows_for(trials, preds["rules_conservative"], m))
+                n_rows = len(rows_for(trials, preds["jev"], m))
+                tp, fp, fn = ((1 - q) * x + q * y for x, y in zip(a, b))
+                out[str(m)] = {"under": fn / (tp + fn), "over": fp / (tp + fp) if tp + fp else 0.0,
+                               "red_rate": (tp + fp) / n_rows}
             summary["outage"][str(q)] = out
 
     (RES / "summary.json").write_text(json.dumps(summary, ensure_ascii=False, indent=1))

diff --git a/triage_study/messy_tables.py b/triage_study/messy_tables.py
@@ -65,14 +65,16 @@ def fig(dark, out):
     f, ax = plt.subplots(1, 2, figsize=(10, 4))
     for n in NAMES:
         ax[0].plot([0, 10, 30, 50], [S["auc"][n][str(m)] for m in analyze.MASKS], marker="o", color=cols[n], label=NAMES[n])
-    ax[0].set(title="AUC（口語回報，確認資料）", xlabel="欄位遮蔽比例（%）", ylim=(0.45, 1.0)); ax[0].legend(fontsize=12 if dark else 8)
+    ax[0].set(title="AUC（口語回報，確認資料）", xlabel="欄位遮蔽比例（%）", ylim=(0.45, 1.16 if dark else 1.0))
+    if dark: ax[0].set_yticks([0.5, 0.6, 0.7, 0.8, 0.9, 1.0])  # headroom so the legend clears the lines
+    ax[0].legend(fontsize=12 if dark else 8, loc="upper right" if dark else "best")
     sc = list(analyze.SCENARIOS); x = range(len(sc)); w = .27
     for i, n in enumerate(NAMES):
         ax[1].bar([j + (i - 1) * w for j in x], [S["scen"][s]["cost"][n] for s in sc], w, color=cols[n], label=NAMES[n])
     ax[1].set_xticks(list(x), [f"{s}\n({analyze.SCENARIOS[s]:g}:1)" for s in sc]); ax[1].set(title="政策總成本（越低越好）")
     for j, s in enumerate(sc):
         e = S["scen"][s]; mark = "＊" if e["ci"][1] < 0 else ("" if e["ci"][0] <= 0 else "†")
-        if mark: ax[1].text(j + w, e["cost"]["kev"] + 40, mark, ha="center", fontsize=14, color=cols["kev"])
+        if mark: ax[1].text(j + w, e["cost"]["kev"] + 40, mark, ha="center", fontsize=26 if dark else 14, color=FG if dark else cols["kev"])
     f.tight_layout(); f.savefig(out, dpi=200)
 fig(False, ROOT / "figures" / "messy_confirm.png")
 fig(True, ROOT.parent / "簡報" / "figures" / "messy_confirm.png")

diff --git a/簡報/plot_deck_figs.py b/簡報/plot_deck_figs.py
@@ -22,6 +22,13 @@ def _big_legend(self, *a, **k):
     k["bbox_to_anchor"] = (1.02, 0.5)
     return _leg(self, *a, **k)
 Axes.legend = _big_legend
+# The deck calls c "判斷傾向"; the report figures keep the original wording.
+_set = Axes.set
+def _deck_set(self, *a, **k):
+    if "title" in k:
+        k["title"] = k["title"].replace("判斷準則", "判斷傾向")
+    return _set(self, *a, **k)
+Axes.set = _deck_set
 trials, preds = analyze.load()
 analyze.plot(json.loads((analyze.RES / "summary.json").read_text()), trials, preds)
 print("ok")

diff --git a/triage_study/results/tables.md b/triage_study/results/tables.md
@@ -61,14 +61,14 @@
 | 0% | 10% | 0.031 | 0.103 | 0.405 |
 | 0% | 30% | 0.218 | 0.116 | 0.332 |
 | 0% | 50% | 0.333 | 0.123 | 0.285 |
-| 30% | 0% | 0.000 | 0.080 | 0.409 |
-| 30% | 10% | 0.022 | 0.146 | 0.433 |
-| 30% | 30% | 0.152 | 0.229 | 0.455 |
-| 30% | 50% | 0.233 | 0.255 | 0.457 |
-| 70% | 0% | 0.000 | 0.034 | 0.389 |
-| 70% | 10% | 0.009 | 0.204 | 0.470 |
-| 70% | 30% | 0.065 | 0.381 | 0.619 |
-| 70% | 50% | 0.100 | 0.431 | 0.686 |
+| 30% | 0% | 0.000 | 0.083 | 0.409 |
+| 30% | 10% | 0.022 | 0.153 | 0.433 |
+| 30% | 30% | 0.152 | 0.301 | 0.455 |
+| 30% | 50% | 0.233 | 0.371 | 0.457 |
+| 70% | 0% | 0.000 | 0.037 | 0.389 |
+| 70% | 10% | 0.009 | 0.210 | 0.470 |
+| 70% | 30% | 0.065 | 0.433 | 0.619 |
+| 70% | 50% | 0.100 | 0.508 | 0.686 |
 | 100% | 0% | 0.000 | 0.000 | 0.375 |
 | 100% | 10% | 0.000 | 0.247 | 0.498 |
 | 100% | 30% | 0.000 | 0.494 | 0.742 |
